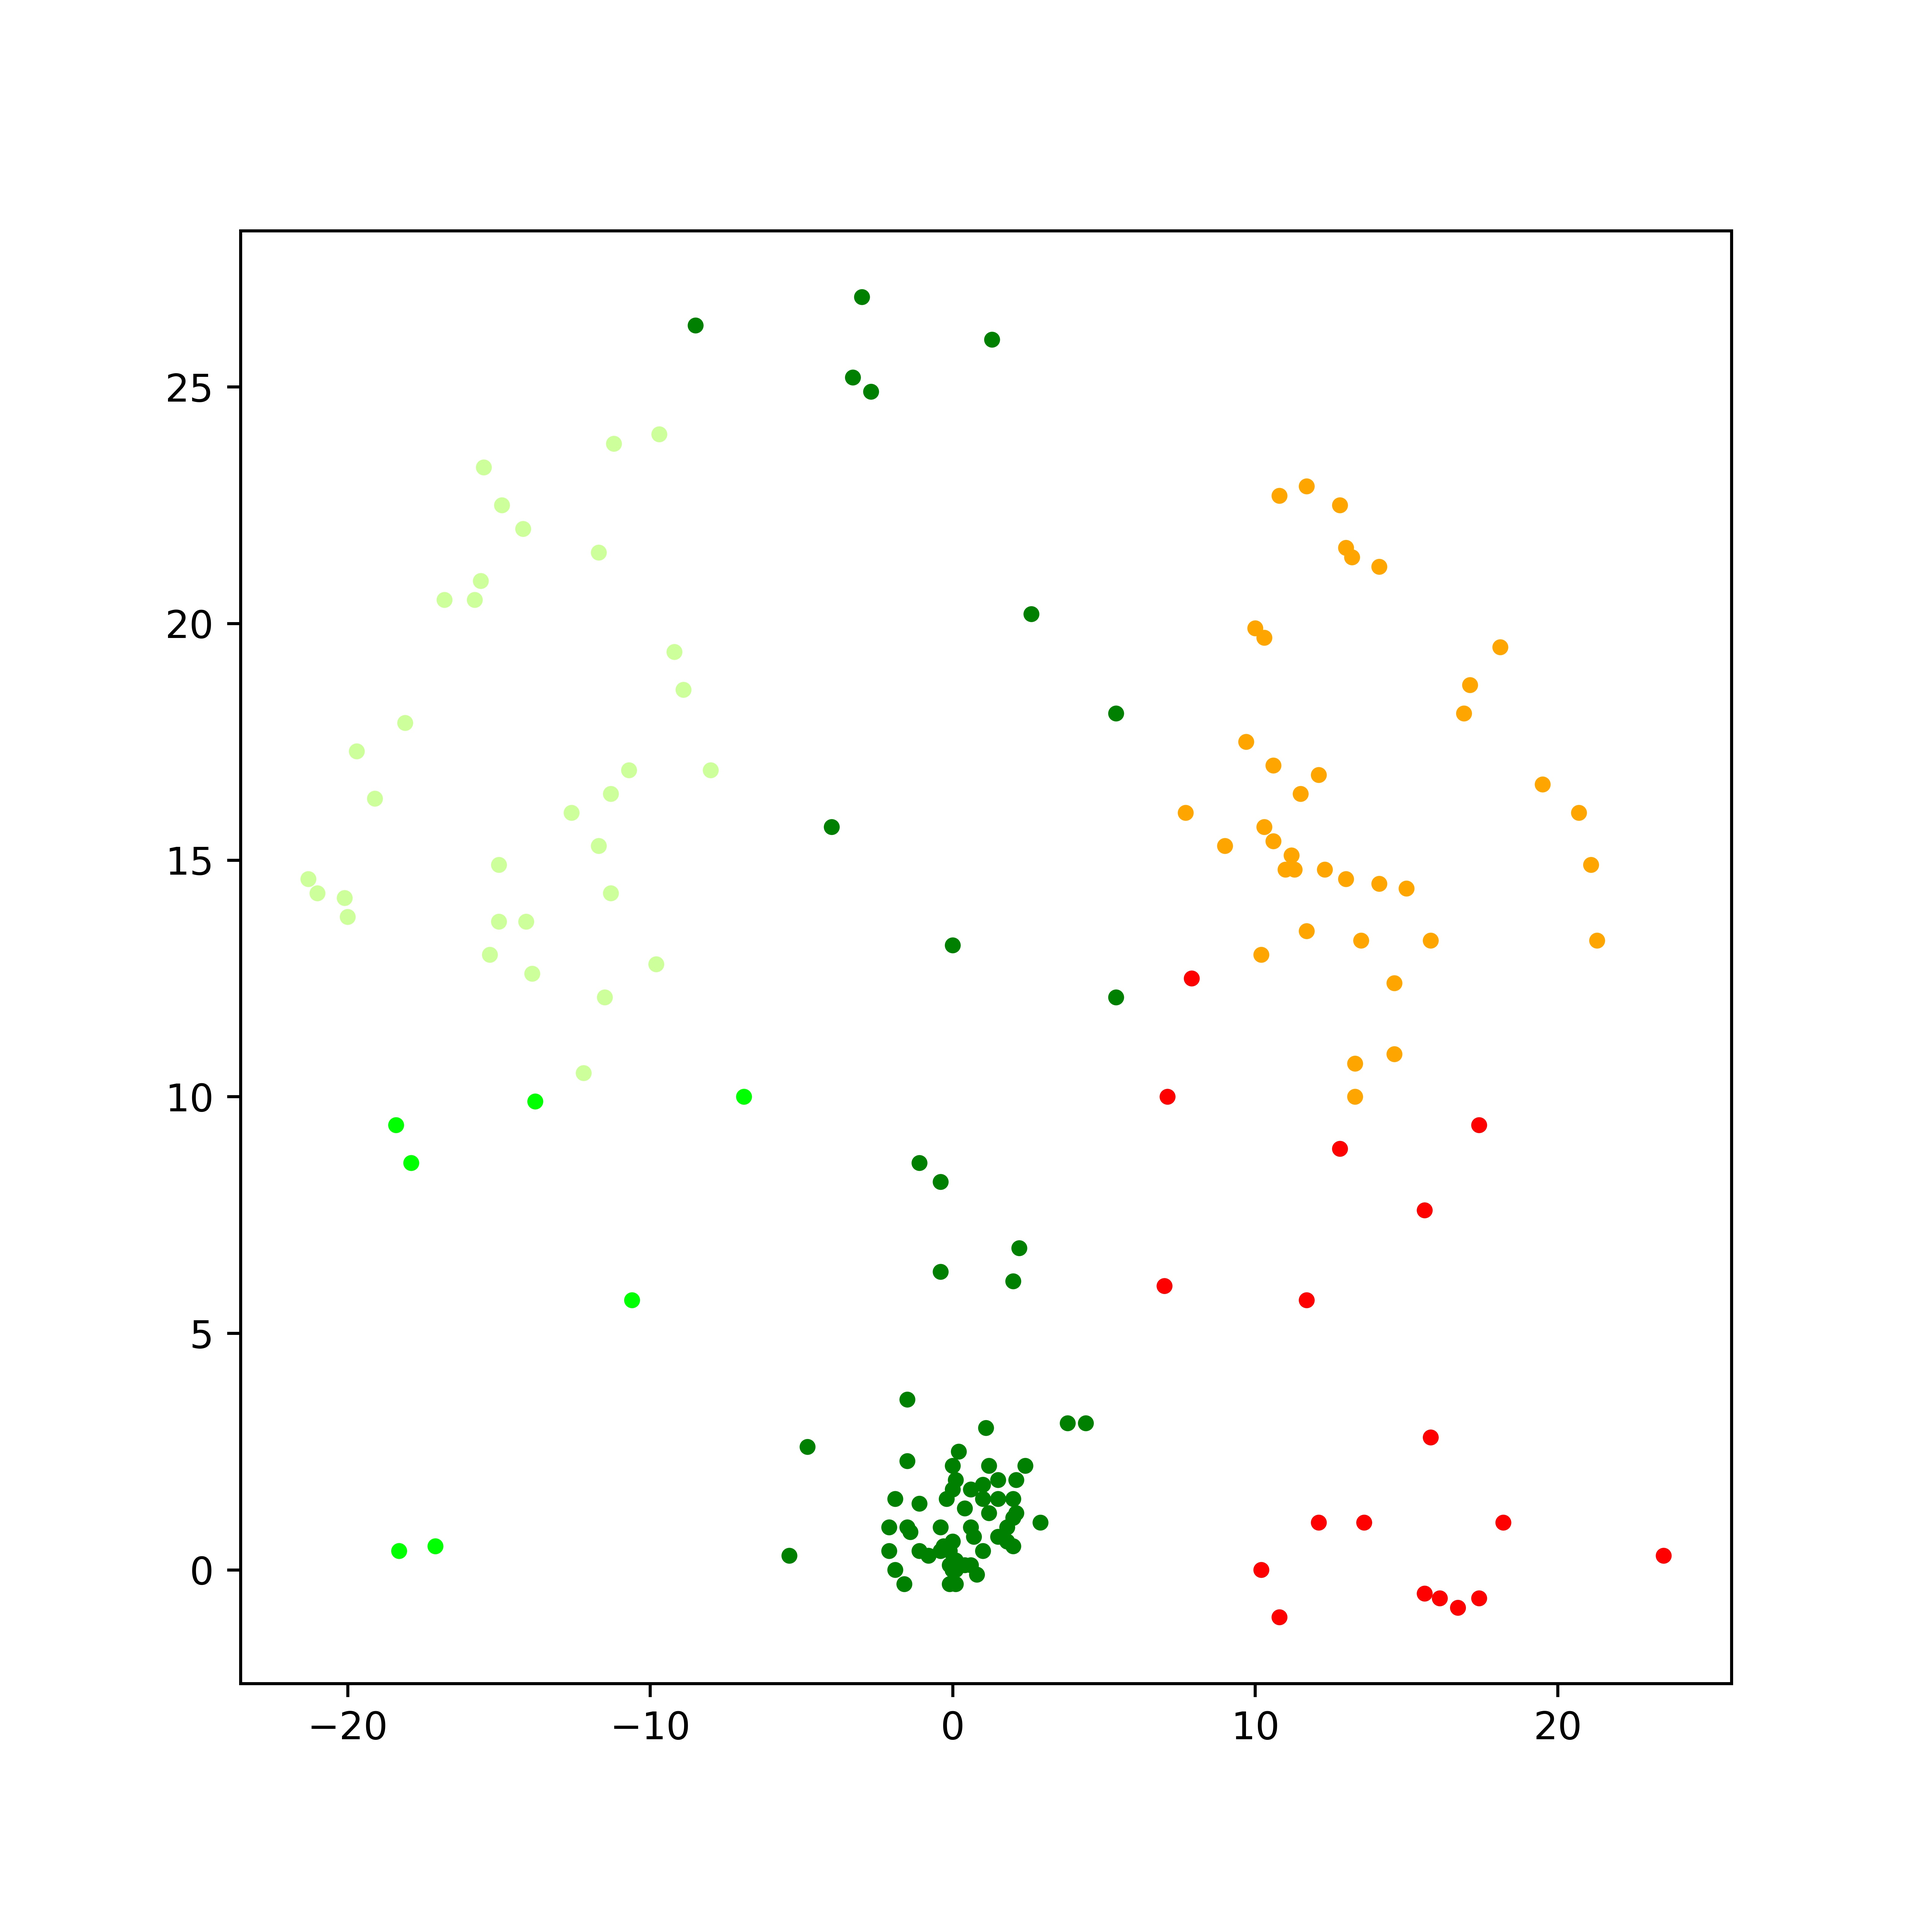
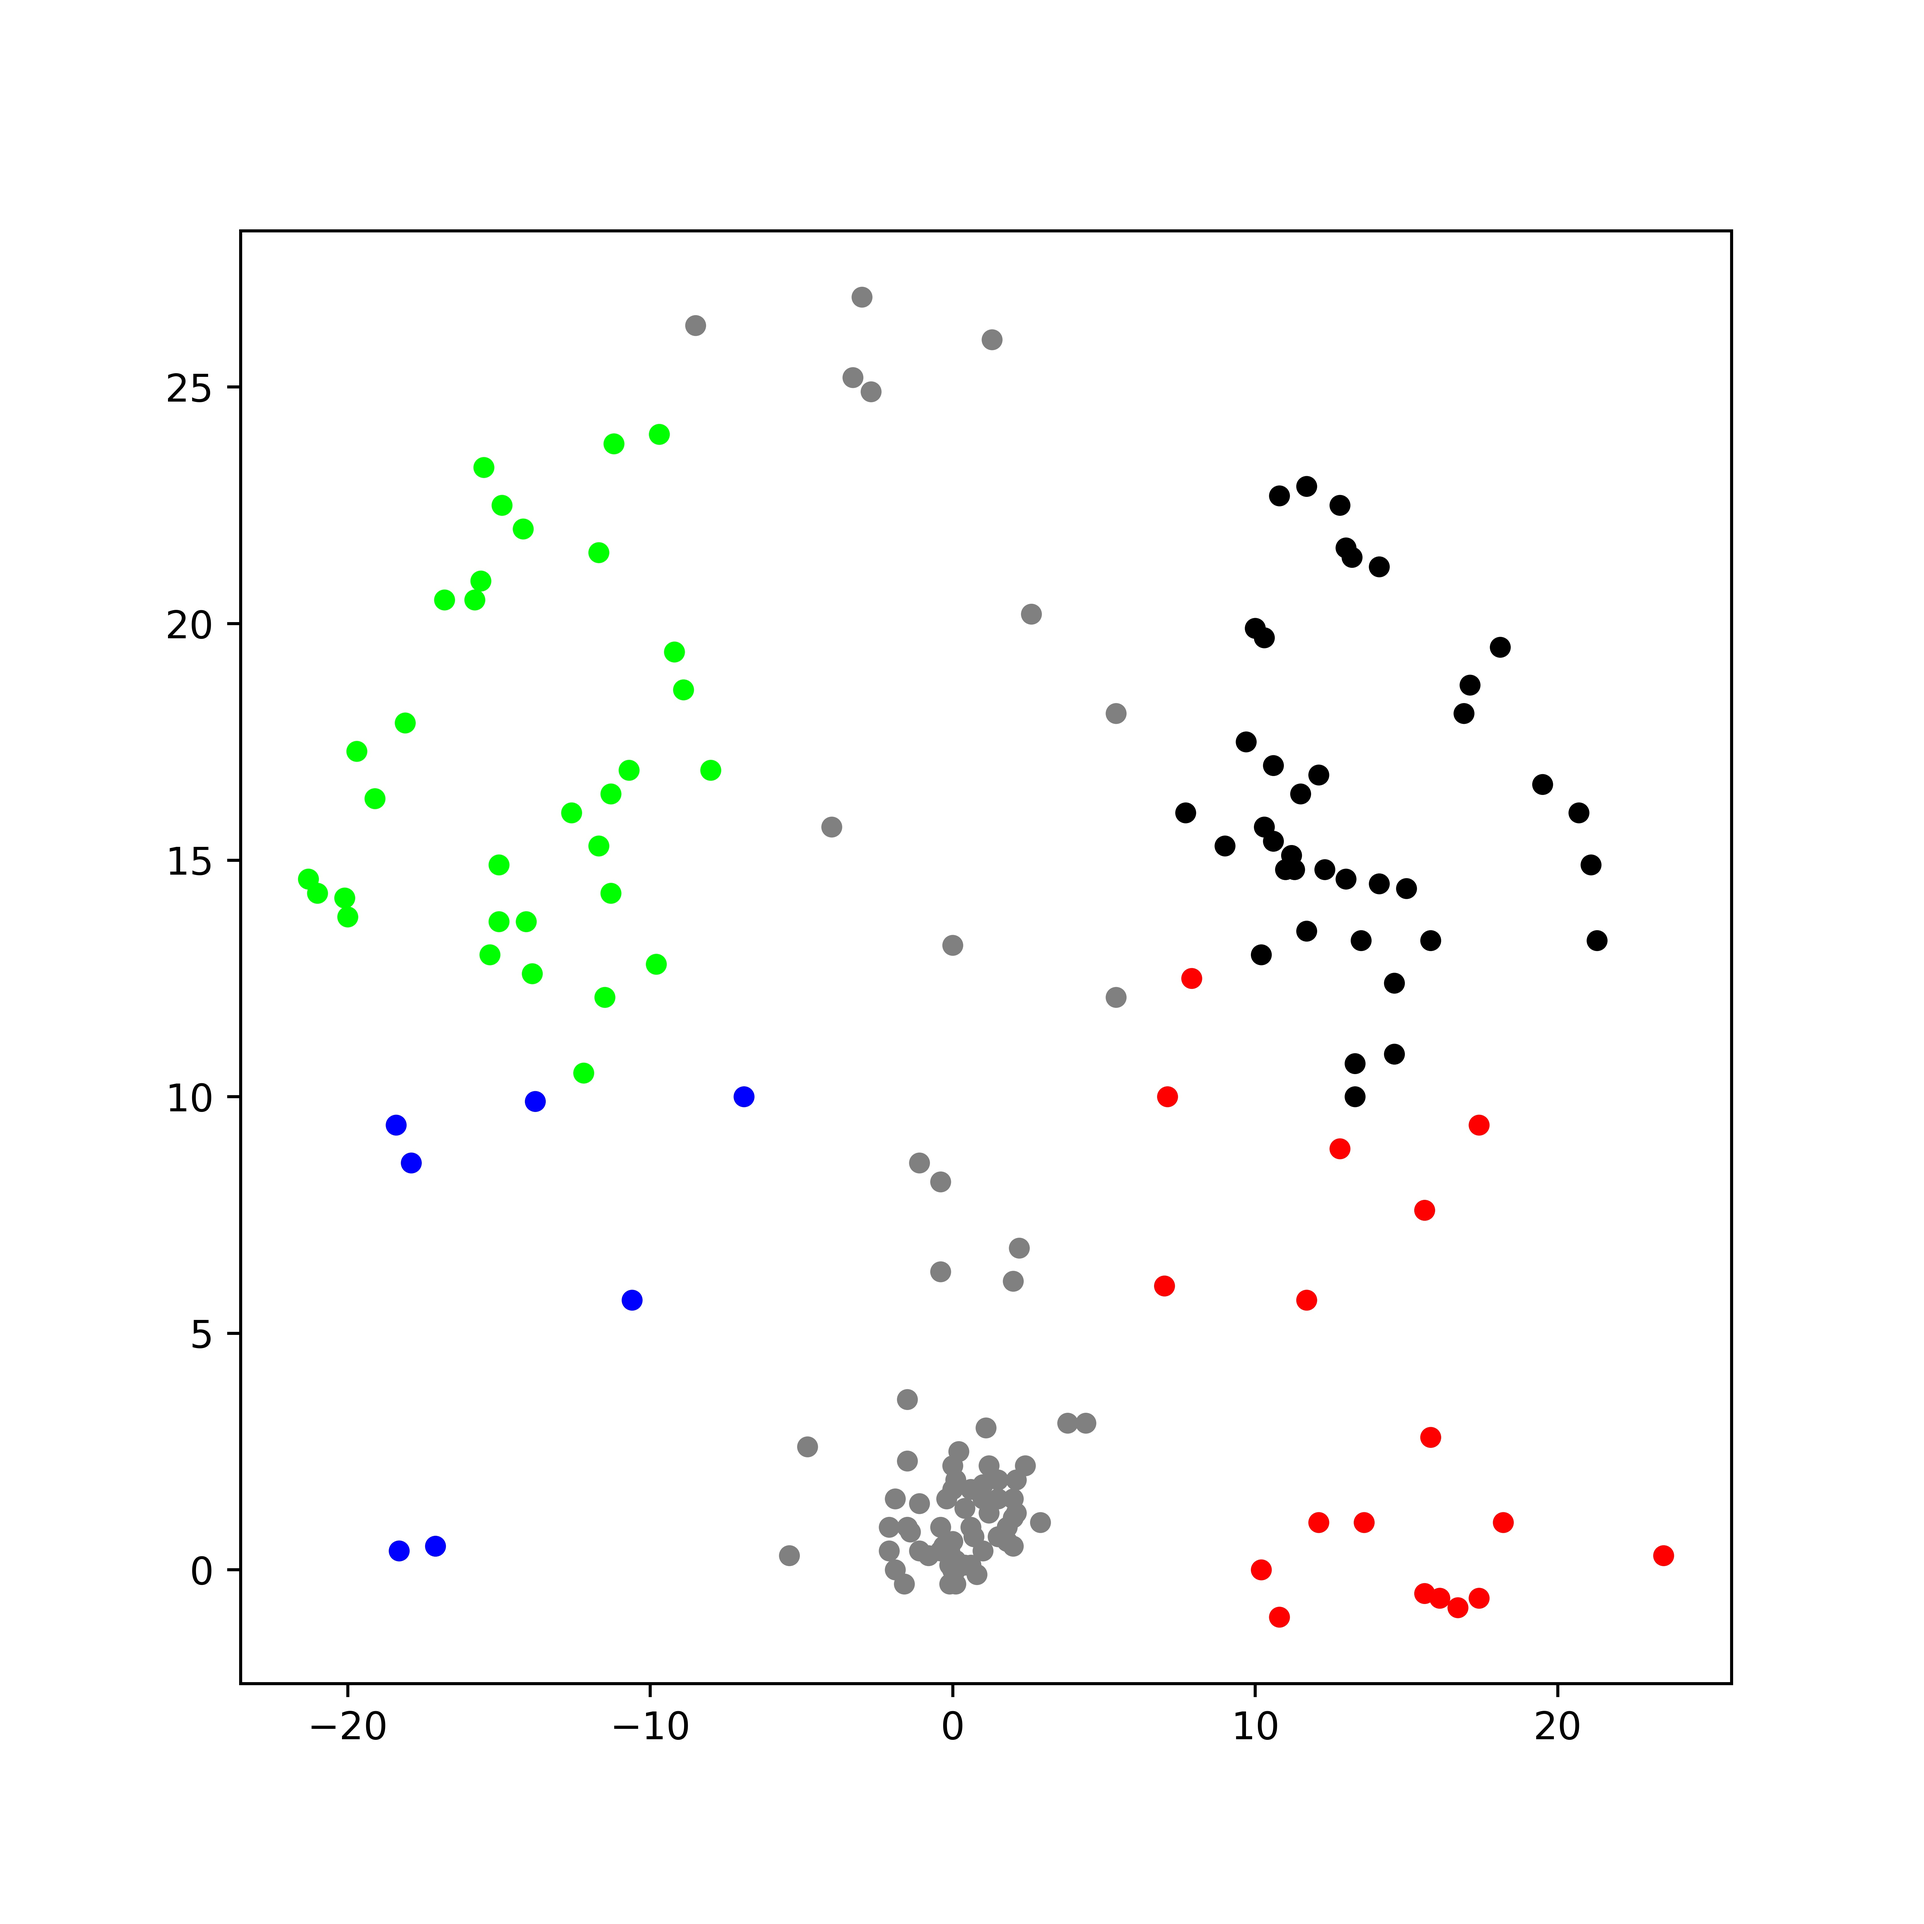
asdfsad

diff --git a/plotter.py b/plotter.py
@@ -107,10 +107,10 @@ def plotBars( barsHigh, filename ):
 def plotItpredict( X, y, Filename):
     
     #Colors1 = colors.ListedColormap(['#0000FF', '#FF0000'])
-    colors1 = colors.ListedColormap(['#FF0000', '#00ff00', '#ff0000', '#cdff9a', '#FFA500', '#008000'])
+    colors1 = colors.ListedColormap(['#FF0000', '#0000ff', '#ffff00', '#00ff00','#000000', '#808080'])
     
     pl.figure(figsize=(7, 7)) 
-    pl.scatter(X[:,0], X[:,1], 10,c=y, cmap=colors1)
+    pl.scatter(X[:,0], X[:,1], 20,c=y, cmap=colors1)
     pl.savefig( Filename  , format='jpg', dpi=900)
     pl.show()
     
